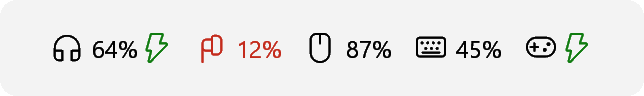
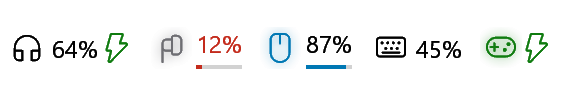
README: capturas novas com as cores das marcas

Changed region(s): [[0.0, 0.3438, 0.9947, 0.6562], [0.3316, 0.6562, 0.4521, 0.7188], [0.5426, 0.6562, 0.633, 0.7188]]

diff --git a/README.md b/README.md
@@ -4,7 +4,7 @@ Battery levels of your wireless mouse, keyboard, headset, earbuds and controller
 Windows taskbar. One small native executable, no vendor software, no installer.
 
 <p align="center">
-  <img src="docs/taskbar-dark.png" alt="Widget on a dark taskbar: headset 64% charging, earbuds 12% (low), mouse 87%, keyboard 45%, controller charging" width="564"><br>
+  <img src="docs/taskbar-dark.png" alt="Widget on a dark taskbar: headset 64% charging, earbuds 12% (low), mouse 87% in Logitech blue with its level bar, keyboard 45%, Xbox controller charging in green" width="564"><br>
   <img src="docs/taskbar-light.png" alt="The same widget on a light taskbar" width="564">
 </p>
 
@@ -71,7 +71,7 @@ from the taskbar and listed as "desconectado" in the menu.
 
 | Dark taskbar | Light taskbar |
 |:---:|:---:|
-| <img src="docs/single-dark.png" alt="Only the mouse, dark taskbar" width="166"> | <img src="docs/single-light.png" alt="Only the mouse, light taskbar" width="166"> |
+| <img src="docs/single-dark.png" alt="Only the mouse, dark taskbar" width="110"> | <img src="docs/single-light.png" alt="Only the mouse, light taskbar" width="110"> |
 
 ## Supported devices
 
